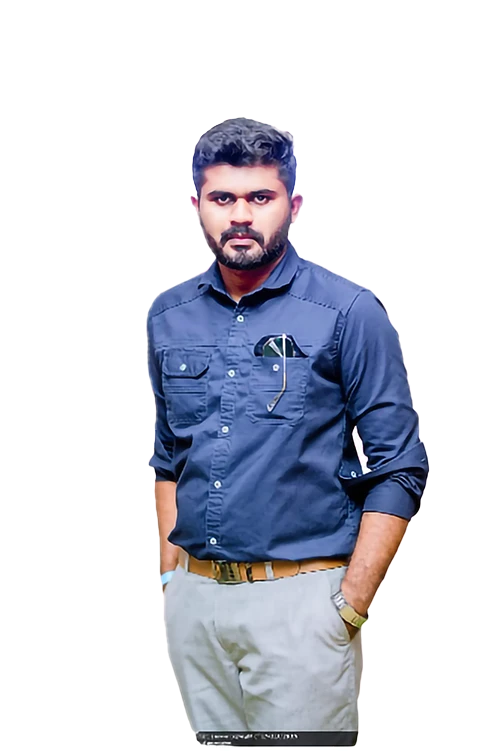
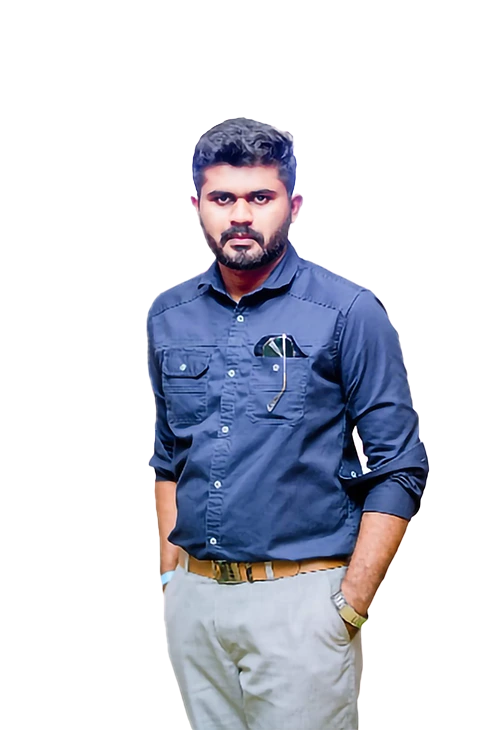
feat: update profile image handling and improve CSS for better responsiveness

Changed region(s): [[0.27, 0.1507, 0.87, 1.0]]

diff --git a/SinethWickramaratna/src/aether/aether.css b/SinethWickramaratna/src/aether/aether.css
@@ -48,7 +48,7 @@
      ceiling is still what applies. */
   --t-colossal: clamp(3.6rem, min(15.5vw, 25vh), 17rem);
   --t-huge: clamp(2.8rem, min(9.2vw, 13.5vh), 9.5rem);
-  --t-large: clamp(2rem, 5.6vw, 5.4rem);
+  --t-large: clamp(1.7rem, min(5.6vw, 9vh), 5.4rem);
   --t-mid: clamp(1.15rem, 2.05vw, 2rem);
   --t-body: clamp(0.95rem, 1.05vw, 1.14rem);
   --t-mono: clamp(0.6rem, 0.68vw, 0.72rem);
@@ -697,10 +697,15 @@ html.ae-locked body {
      margin on a wide monitor and starts cutting the figure's arm — a
      crop that only appears once the window is large enough. */
   right: max(-2vw, -2.25rem);
-  bottom: -5vh;
-  /* Grows further on a large display: capped at 38rem the figure read
-     as a small object stranded in a wide frame. */
-  width: clamp(17rem, 40vw, 46rem);
+  /* Stands on the bottom edge of the frame rather than bleeding through
+     it. Anything that has to be given up is given up at the top, where
+     it costs a little headroom — never at the feet. */
+  bottom: 0;
+  /* Sized by whichever runs out first, the width or the height. The
+     second term is the height cap expressed as a width (the cutout is
+     500×751, so width ≈ height × 0.666); without it a short window
+     would push the figure's head off the top of the frame. */
+  width: min(clamp(17rem, 40vw, 46rem), 62vh);
   margin: 0;
   z-index: 1;
 }
@@ -753,8 +758,9 @@ html.ae-locked body {
   filter: grayscale(1) contrast(1.14) brightness(1.04)
     drop-shadow(0 0 34px rgba(0, 217, 245, 0.42))
     drop-shadow(0 0 90px rgba(0, 217, 245, 0.16));
-  /* Bleeds off the bottom edge of the section. */
-  mask-image: linear-gradient(to bottom, #000 82%, transparent 99%);
+  /* No bottom fade. It was dissolving the figure from the upper thigh
+     down, which read as the photograph being cut off rather than as a
+     plate bled off the page. The cutout now shows whole. */
 }
 
 /* One violet accent raking across the figure from the upper left. */
@@ -1549,7 +1555,12 @@ html.ae-locked body {
   position: fixed;
   top: 0;
   left: 0;
-  z-index: 60;
+  /* Above everything, the curtain included. The native cursor is
+     suppressed site-wide, so anything painted over the reticle leaves
+     the visitor with no pointer at all — which is what happened on the
+     loading screen, where the curtain (70) covered it. Nothing should
+     ever stack above the cursor. */
+  z-index: 90;
   pointer-events: none;
   border-radius: 50%;
   opacity: 0;
@@ -1968,9 +1979,34 @@ html.ae-locked body {
 @media (max-width: 900px) {
   .ae { --gutter: 1.25rem; }
 
+  /* What a phone gives up.
+     ----------------------------------------------------------------
+     Every one of these is a decorative or duplicate layer that, on a
+     screen this size, has nowhere to go except on top of the content.
+     They were each colliding with something the visitor actually needs
+     to read, and the fix in every case is the same: on a 390px frame
+     there is room for one thing per region, so the ornament goes and
+     the substance stays.
+
+     · rail        — 13 fixed marks in a right margin that no longer
+                     exists; it was printing over project titles and
+                     the doctrine notes. Scrolling is the navigation.
+     · skills core — the giant DATA / INTELLIGENCE behind the neural
+                     map. The node names are the content and they were
+                     landing on top of it.
+     · node keys   — the milestone words riding the trajectory. The
+                     read-out panel already names the active one.
+     · walk hint   — "MOVE TO WALK THE ROOM" asks for a pointer that a
+                     touch device does not have, and it sat on the
+                     exhibition captions.
+     ---------------------------------------------------------------- */
   .ae-vert,
   .ae-hero-labels,
-  .ae-rail-label { display: none; }
+  .ae-rail-label,
+  .ae-rail,
+  .ae-skills-core,
+  .tj-key,
+  .ae-creative-hint { display: none; }
 
   .ae-hero-first { transform: translate(0, -18vh); }
   .ae-hero-front { justify-content: flex-start; bottom: 34vh; }
@@ -1989,9 +2025,9 @@ html.ae-locked body {
   .ae-portrait {
     /* Portrait to the top half, copy to the bottom. At this width there
        is no room to run body text across a figure and still read it. */
-    width: 62vw;
+    width: min(62vw, 42vh);
     right: -6vw;
-    top: 3vh;
+    top: 2vh;
     bottom: auto;
     opacity: 0.75;
   }
@@ -2094,7 +2130,13 @@ html.ae-locked body {
   .nm-tag-name { font-size: 0.5rem; letter-spacing: 0.14em; }
   .nm-tag-note { display: none; }
 
-  .ae-journey-head { max-width: 80vw; }
+  /* `width`, not `max-width` — the base rule sets an explicit width of
+     40vw, which on a phone is 156px and was chopping the headline in
+     half. A max-width cannot widen it back. */
+  .ae-journey-head {
+    width: calc(100% - var(--gutter) * 2);
+    max-width: none;
+  }
   .ae-milestone { width: 100%; }
   .ae-milestone-detail { min-height: 0; }
 
@@ -2106,6 +2148,127 @@ html.ae-locked body {
   .ae-pillar--2, .ae-pillar--3 { display: none; }
   .ae-fields { gap: 0.8rem; }
   .ae-footer-in { flex-direction: column; align-items: flex-start; }
+}
+
+/* ------------------------------------------------------------------
+   24b. SHORT VIEWPORTS — landscape phones, small windows
+   ------------------------------------------------------------------
+   Keyed on height, not width, because this is a different problem from
+   a narrow screen. The mobile rules above stack each composition
+   vertically, which is right for a 390×844 phone and wrong for the same
+   phone turned sideways: 844×390 has width to spare and almost no
+   height, so a stacked layout puts the project number on the title on
+   the blurb.
+
+   Two moves. Anything that exists to fill vertical space goes, and
+   anything still standing is re-laid across the width that is now the
+   plentiful dimension.
+   ------------------------------------------------------------------ */
+@media (max-height: 560px) and (max-width: 1180px) {
+  /* Ornament that needs height it does not have. The outlined project
+     number alone was 30vw — 253px of a 390px frame. */
+  .ae-work-number,
+  .ae-ghost,
+  .ae-fields,
+  .ae-journey-sub,
+  .ae-hero-desc,
+  .ae-disciplines,
+  .ae-pillar-body { display: none; }
+
+  /* The statement stays — it is the one thing the hero is actually
+     saying. The role list under it is what goes instead. */
+  .ae-hero-statement {
+    bottom: 4vh;
+    font-size: 0.82em;
+    line-height: 1.35;
+  }
+
+  .ae-sec-mark { top: 1.4rem; }
+
+  /* The note under each thesis node is what reached the section mark;
+     dropping it clears the corner without moving the node itself into
+     the headline. */
+  .ae-thesis-node em { display: none; }
+
+  /* The profile column ran the full height of the frame and put its
+     headline level with the section mark. The metadata becomes a single
+     wrapped row, which is where the height comes back from. */
+  .ae-meta {
+    display: flex;
+    flex-wrap: wrap;
+    gap: 0.3rem 1.4rem;
+  }
+  .ae-meta-row {
+    display: flex;
+    gap: 0.5rem;
+    padding-top: 0;
+    border-top: 0;
+  }
+  .ae-profile-body {
+    font-size: 0.92em;
+    line-height: 1.5;
+    margin: 0.7rem 0 0.9rem;
+  }
+  .ae-profile-cv { margin-top: 0.9rem; }
+
+  /* Four stacked words at 19vh filled three quarters of the frame.
+     Shrunk, and pushed to the left half so the availability list and
+     the call to action can hold the right — stacked one above the
+     other, there is not enough height for both. */
+  .ae-contact-head {
+    font-size: min(8vw, 12vh);
+    transform: translate(-26vw, 0);
+  }
+  .ae-contact-grid {
+    align-content: center;
+    justify-items: end;
+    text-align: right;
+    padding-bottom: var(--gutter);
+  }
+  .ae-cta--portal { justify-self: end; }
+  .ae-hero-first { transform: translate(0, -8vh); }
+  .ae-hero-front { bottom: 20vh; justify-content: flex-start; }
+  .ae-scrollcue { bottom: 2vh; }
+
+  /* Back to two columns: width is no longer what is scarce. */
+  .ae-profile-copy {
+    width: min(44ch, 54vw);
+    right: auto;
+    bottom: 4vh;
+  }
+  .ae-portrait {
+    width: min(30vw, 58vh);
+    right: 2vw;
+    top: auto;
+    bottom: 0;
+    opacity: 0.9;
+  }
+
+  .ae-work-head {
+    max-width: 54vw;
+    transform: translateY(-56%);
+  }
+  .ae-work-side,
+  .ae-work.is-flipped .ae-work-side {
+    left: auto;
+    right: var(--gutter);
+    width: min(34ch, 38vw);
+    bottom: 5vh;
+  }
+  .ae-work.is-flipped .ae-work-side { right: auto; left: var(--gutter); }
+  .ae-work.is-flipped .ae-work-head { left: auto; right: var(--gutter); text-align: right; }
+
+  .ae-journey-head { width: min(40ch, 46vw); }
+  .ae-milestone { margin-top: 0.9rem; }
+
+  .ae-research-pillars {
+    grid-template-columns: repeat(2, minmax(0, 1fr));
+    bottom: 4vh;
+  }
+  .ae-creative-head { max-width: 44vw; }
+  .ae-contact-grid { gap: 0.6rem; }
+  .ae-contact-avail,
+  .ae-channels { font-size: 0.9em; }
 }
 
 /* ------------------------------------------------------------------

diff --git a/SinethWickramaratna/src/aether/sections/Profile.jsx b/SinethWickramaratna/src/aether/sections/Profile.jsx
@@ -3,7 +3,6 @@ import Frame from '../ui/Frame';
 import { Lines, useReveal, useMagnetic } from '../ui/reveal';
 import { PROFILE_META, CV_URL } from '../config';
 import portrait from '../../assets/Images/profile.webp';
-import portraitFallback from '../../assets/Images/profile.png';
 
 /**
  * 01 / PROFILE.
@@ -36,16 +35,20 @@ export default function Profile() {
         {/* The orbital curves and the ghost word are painted by
             BackLayer, under the canvas, so the halo crosses them. */}
 
+        {/* The webp is the cropped derivative, not merely a smaller
+            encoding: the source PNG carries a background-remover's
+            toolbar baked across its bottom edge, which the old fade-out
+            was quietly hiding. There is no PNG fallback because falling
+            back would put the watermark on screen. */}
         <figure className="ae-portrait">
-          <picture>
-            <source srcSet={portrait} type="image/webp" />
-            <img
-              src={portraitFallback}
-              alt="Sineth Wickramaratna"
-              loading="lazy"
-              decoding="async"
-            />
-          </picture>
+          <img
+            src={portrait}
+            alt="Sineth Wickramaratna"
+            width="500"
+            height="730"
+            loading="lazy"
+            decoding="async"
+          />
           <span className="ae-portrait-cast" aria-hidden="true" />
         </figure>
 

diff --git a/SinethWickramaratna/src/aether/Flat.jsx b/SinethWickramaratna/src/aether/Flat.jsx
@@ -13,7 +13,6 @@ import {
   CV_URL,
 } from './config';
 import portrait from '../assets/Images/profile.webp';
-import portraitFallback from '../assets/Images/profile.png';
 
 /**
  * The flat document.
@@ -57,10 +56,7 @@ export default function Flat({ reason }) {
 
       <section className="af-sec">
         <span className="ae-mono ae-accent">01 / PROFILE</span>
-        <picture>
-          <source srcSet={portrait} type="image/webp" />
-          <img className="af-portrait" src={portraitFallback} alt="Sineth Wickramaratna" />
-        </picture>
+        <img className="af-portrait" src={portrait} alt="Sineth Wickramaratna" />
         <p className="af-body">
           I am a Computer Science &amp; Engineering undergraduate specialising in
           Data Science Engineering — interested in building intelligent systems,
